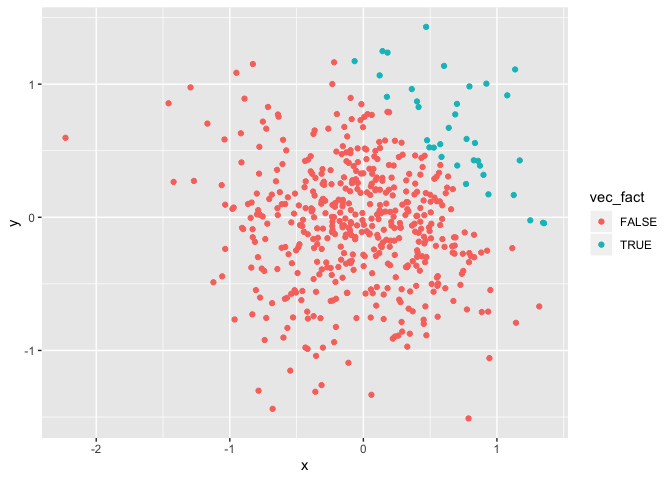
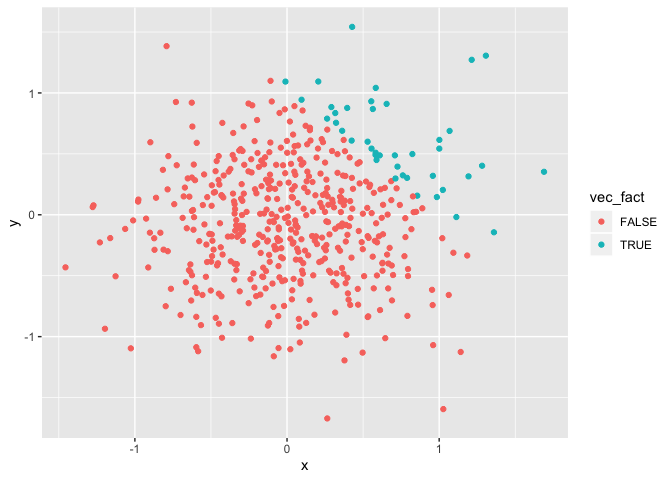
final version

diff --git a/p8105_hw1_LG2982.md b/p8105_hw1_LG2982.md
@@ -16,9 +16,9 @@ problem_1_df%>%
 ```
 
     ## # A tibble: 1 x 1
-    ##    meanx
-    ##    <dbl>
-    ## 1 -0.142
+    ##   meanx
+    ##   <dbl>
+    ## 1 0.138
 
 ``` r
 problem_1_df%>%
@@ -28,7 +28,7 @@ problem_1_df%>%
     ## # A tibble: 1 x 1
     ##   meanlog
     ##     <dbl>
-    ## 1     0.5
+    ## 1   0.625
 
 ``` r
 problem_1_df%>%
@@ -94,9 +94,9 @@ problem_2_df = tibble(
 ```
 
     ## # A tibble: 1 x 3
-    ##     mean_x `sd(x)` `median(x)`
-    ##      <dbl>   <dbl>       <dbl>
-    ## 1 0.000542   0.518      0.0104
+    ##   mean_x `sd(x)` `median(x)`
+    ##    <dbl>   <dbl>       <dbl>
+    ## 1 0.0322   0.503      0.0317
 
 ``` r
   problem_2_df%>%
@@ -107,8 +107,8 @@ problem_2_df = tibble(
     ## # A tibble: 2 x 3
     ##   `x + y > 1`     n  freq
     ##   <lgl>       <int> <dbl>
-    ## 1 FALSE         464 0.928
-    ## 2 TRUE           36 0.072
+    ## 1 FALSE         459 0.918
+    ## 2 TRUE           41 0.082
 
 ``` r
 ggplot(problem_2_df, aes(x = x, y = y, color = x + y > 1)) + geom_point() # colored scatterplot where blue are x + y > 1 and pink are the values x + y =< 1
